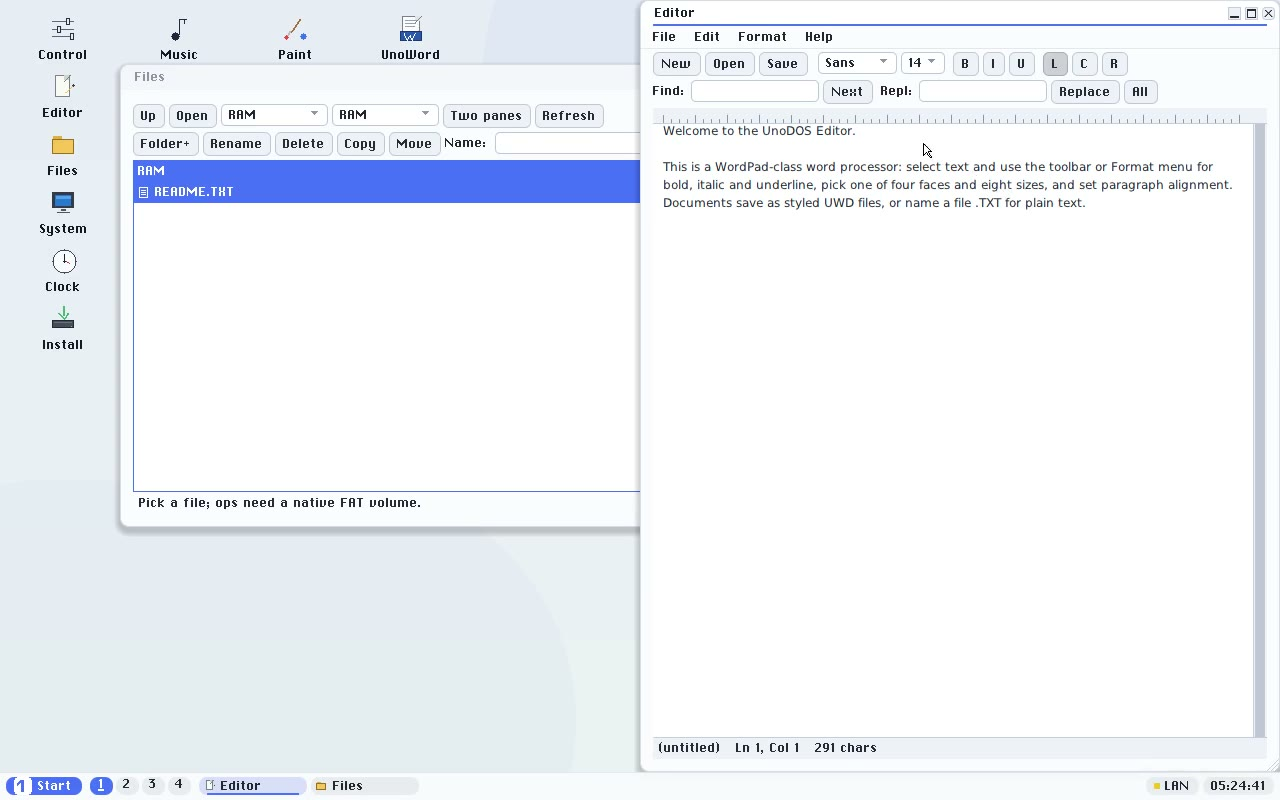
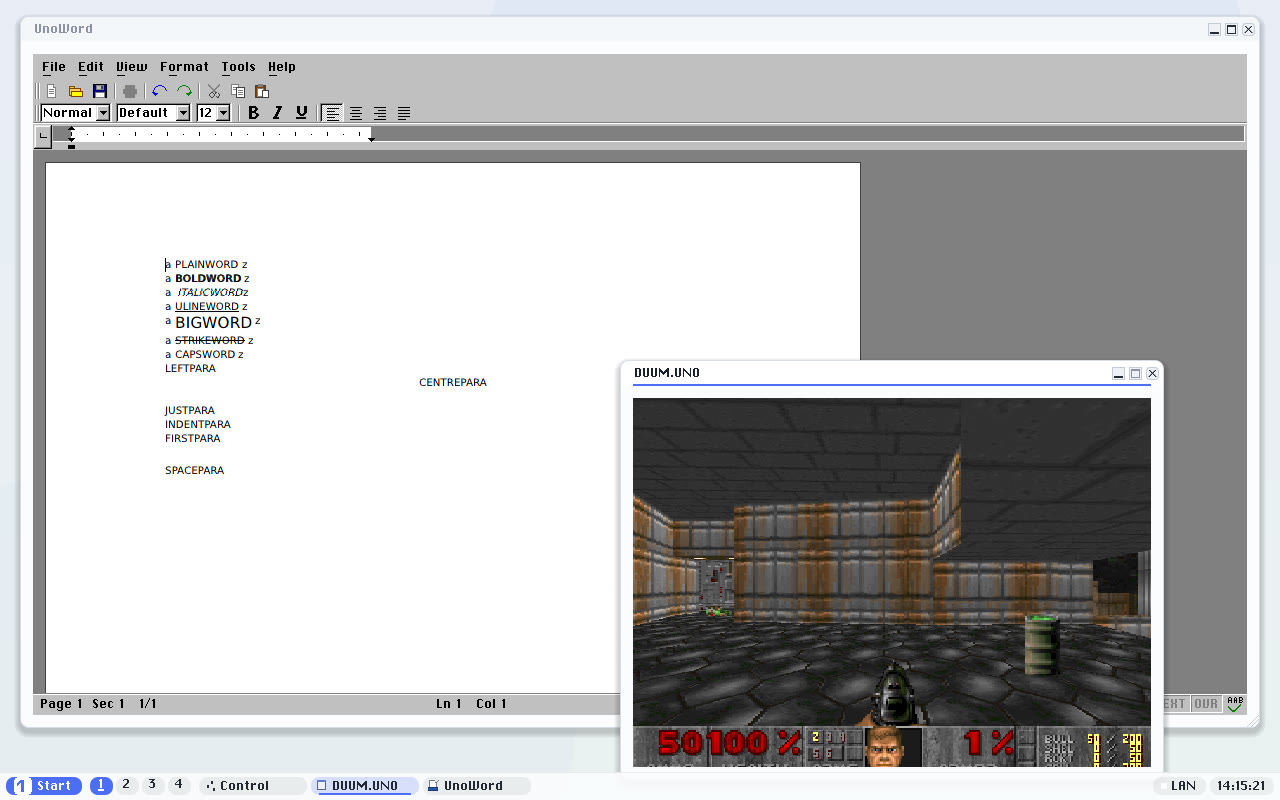
duum: ship a WAD, document bringing your own, and stage the poster shot
THE ISO AND FLASHER NOW CARRY A WAD. Duum has always needed an IWAD nobody
supplied, so out of the box it opened and said it was missing - the one app
most likely to make someone try the thing, broken on arrival. fetch-wad.sh now
defaults to FREEDOOM, whose BSD licence allows it to be given away inside
another product; id's shareware WAD stays available behind --shareware for
local use, because it may be passed around unmodified but is not ours to bake
into a release.

build.sh already staged wads/freedoom1.wad onto the boot disk, so both paths
inherit it: mkiso.py packs build/esp into the ISO, and the flasher zips the
same tree. Verified end to end on a clean build - /DOOM1.WAD is inside the
ISO at its full 28,795,076 bytes.

IT DOUBLES THE ISO, 47 MB to 96 MB. That is the price of the game data and it
is worth stating rather than discovering.

THE MANUAL SAID DUUM WAS A DEMO. The user-facing games section did not mention
it at all, and the developer page still said monsters, items, doors and combat
were "not implemented", which stopped being true several commits ago. Duum now
has a section of its own with the controls and a four-step "bring your own
WAD", and the developer text describes the game that exists.

A POSTER SCENE, because a poster is a screenshot like any other here and gets
scripted rather than cropped by hand. It stages Duum over an open FMT.DOC and
moves the Duum window off the text - it opens exactly on top of the formatted
[…]

diff --git a/docs/apps.html b/docs/apps.html
@@ -164,6 +164,31 @@ play. (Progressive JPEG and WebP are recognised but not decoded.)</p>
 </div>
 <div class="note"><b>3D graphics</b>Runner3D draws real-time 3D graphics entirely in software, so it needs no graphics card.</div>
 
+<h3 id="duum">Duum</h3>
+<p><strong>Duum</strong> is a Doom engine, written in Python, running on the machine's own Python
+runtime. It plays <strong>Knee-Deep in the Dead</strong> end to end: textured walls, floors and sky,
+monsters that see you, chase you and shoot back, weapons, doors, lifts, switches, teleporters,
+keycards, pickups, exploding barrels, the status bar along the bottom, and level-to-level progression.
+Move with the arrow keys, turn with left and right, strafe with <kbd>,</kbd> and <kbd>.</kbd>,
+fire with <kbd>F</kbd>, open doors with <kbd>Space</kbd>, and pick a weapon with <kbd>1</kbd> to
+<kbd>6</kbd>.</p>
+
+<h4>Duum needs a game file</h4>
+<p>Doom's levels, textures and sounds live in a data file called an <strong>IWAD</strong>, and it is
+separate from the engine. UnoDOS ships with <strong>Freedoom</strong>, a free, from-scratch,
+Doom-compatible IWAD, so Duum plays out of the box. If you own Doom you can use your own data
+instead, and it will look and play like the game you remember.</p>
+<ol>
+  <li>Find your <code>DOOM1.WAD</code> (or <code>DOOM.WAD</code> from the registered game, or
+      <code>freedoom1.wad</code> from <a href="https://freedoom.github.io/">freedoom.github.io</a>).</li>
+  <li>Rename it to <strong><code>DOOM1.WAD</code></strong> if it is not called that already.</li>
+  <li>Copy it into the <strong>top level</strong> of the UnoDOS disk - the same place the
+      <code>APPS</code> folder lives - replacing the one that is there.</li>
+  <li>Start Duum. It reads the file straight off the disk as it plays.</li>
+</ol>
+<div class="note"><b>Big files are fine</b>Duum reads the WAD a piece at a time rather than loading it into memory, so a large one is fine on a small machine. If the file is missing or is not a Doom IWAD, Duum opens and tells you so instead of failing.</div>
+<div class="note warn"><b>Whose data is whose</b>Game data belongs to whoever made it. Freedoom is included because its licence allows it to be given away with other software; the id Software WADs are yours to use but not ours to ship, so bring your own copy.</div>
+
 <h2 id="studio">Studio: make your own apps</h2>
 <p>UnoDOS comes with its own IDE. <strong>Studio</strong> is a code editor, a compiler and an AI
 assistant in one window: write an app in <strong>UnoC or Python</strong>, press

diff --git a/docs/dev-python.html b/docs/dev-python.html
@@ -233,12 +233,15 @@ and renders a first-person, BSP-traversed view of the level you can walk around,
 <code>uno.read_at</code>, never loading it whole), heavy compute (the BSP walk and the column renderer), the
 framebuffer, keyboard input, and floating-point math.</p>
 <div class="note"><b>Bring your own WAD</b>Duum needs a Doom-format IWAD on the disk as <code>DOOM1.WAD</code> - none ships with UnoDOS, game data belongs to its makers. Use <strong>Freedoom</strong> (freedoom.github.io, a free BSD-licensed IWAD; rename <code>freedoom1.wad</code> to <code>DOOM1.WAD</code>) or the freely distributable id Software shareware <code>DOOM1.WAD</code>. Put it next to the apps on the boot disk. Without a WAD, Duum opens and says it is missing.</div>
-<p>Walls are texture-mapped from the WAD (perspective-correct, distance- and orientation-shaded); floors,
-ceilings and sky are flat-shaded. It renders one level (E1M1) with simple wall collision. Flat texturing,
-monsters, items, doors and combat are <em>not</em> implemented - Duum proves the platform can carry a real
-engine, it is not a complete port. The textured-column inner loop runs in C (<code>cv.wall_col</code>) so
-the per-pixel work does not go through the interpreter. Move with the arrows, strafe with <kbd>,</kbd> and
-<kbd>.</kbd>.</p>
+<p>Walls, floors, ceilings and sky are all texture-mapped from the WAD (perspective-correct, distance-
+and orientation-shaded), with sprites for monsters, items and the weapon. It is a complete game rather
+than a demo: monster AI, hitscan and projectile weapons, doors, lifts, switches, teleporters, keycards,
+pickups, exploding barrels, damage, the real STBAR status bar, and E1M1 through E1M9 in order. Three
+inner loops run in C (<code>cv.wall_span</code>, <code>cv.mask_span</code>, <code>cv.flat_span</code> -
+one call per rendered column) so the per-pixel work does not go through the interpreter, and input comes
+through the live held-key level (<code>uno.keys_down()</code>) with the 60&nbsp;Hz clock from
+<code>uno.ticks()</code>. Move with the arrows, strafe with <kbd>,</kbd> and <kbd>.</kbd>, fire with
+<kbd>F</kbd>, use with <kbd>Space</kbd>.</p>
 
 <p class="kv">Next: the full <a href="dev-api.html">API reference</a> (including the <a href="dev-api.html#uno-py">
 Python <code>uno</code> module</a>), and <a href="dev-build.html">Building &amp; tooling</a>.</p>

diff --git a/docs/build_site.py b/docs/build_site.py
@@ -1274,6 +1274,31 @@ play. (Progressive JPEG and WebP are recognised but not decoded.)</p>
 </div>
 {note('Runner3D draws real-time 3D graphics entirely in software, so it needs no graphics card.', title="3D graphics")}
 
+<h3 id="duum">Duum</h3>
+<p><strong>Duum</strong> is a Doom engine, written in Python, running on the machine's own Python
+runtime. It plays <strong>Knee-Deep in the Dead</strong> end to end: textured walls, floors and sky,
+monsters that see you, chase you and shoot back, weapons, doors, lifts, switches, teleporters,
+keycards, pickups, exploding barrels, the status bar along the bottom, and level-to-level progression.
+Move with the arrow keys, turn with left and right, strafe with <kbd>,</kbd> and <kbd>.</kbd>,
+fire with <kbd>F</kbd>, open doors with <kbd>Space</kbd>, and pick a weapon with <kbd>1</kbd> to
+<kbd>6</kbd>.</p>
+
+<h4>Duum needs a game file</h4>
+<p>Doom's levels, textures and sounds live in a data file called an <strong>IWAD</strong>, and it is
+separate from the engine. UnoDOS ships with <strong>Freedoom</strong>, a free, from-scratch,
+Doom-compatible IWAD, so Duum plays out of the box. If you own Doom you can use your own data
+instead, and it will look and play like the game you remember.</p>
+<ol>
+  <li>Find your <code>DOOM1.WAD</code> (or <code>DOOM.WAD</code> from the registered game, or
+      <code>freedoom1.wad</code> from <a href="https://freedoom.github.io/">freedoom.github.io</a>).</li>
+  <li>Rename it to <strong><code>DOOM1.WAD</code></strong> if it is not called that already.</li>
+  <li>Copy it into the <strong>top level</strong> of the UnoDOS disk - the same place the
+      <code>APPS</code> folder lives - replacing the one that is there.</li>
+  <li>Start Duum. It reads the file straight off the disk as it plays.</li>
+</ol>
+{note('Duum reads the WAD a piece at a time rather than loading it into memory, so a large one is fine on a small machine. If the file is missing or is not a Doom IWAD, Duum opens and tells you so instead of failing.', title="Big files are fine")}
+{note('Game data belongs to whoever made it. Freedoom is included because its licence allows it to be given away with other software; the id Software WADs are yours to use but not ours to ship, so bring your own copy.', kind="warn", title="Whose data is whose")}
+
 <h2 id="studio">Studio: make your own apps</h2>
 <p>UnoDOS comes with its own IDE. <strong>Studio</strong> is a code editor, a compiler and an AI
 assistant in one window: write an app in <strong>UnoC or Python</strong>, press
@@ -2028,12 +2053,15 @@ and renders a first-person, BSP-traversed view of the level you can walk around,
 <code>uno.read_at</code>, never loading it whole), heavy compute (the BSP walk and the column renderer), the
 framebuffer, keyboard input, and floating-point math.</p>
 {note('Duum needs a Doom-format IWAD on the disk as <code>DOOM1.WAD</code> - none ships with UnoDOS, game data belongs to its makers. Use <strong>Freedoom</strong> (freedoom.github.io, a free BSD-licensed IWAD; rename <code>freedoom1.wad</code> to <code>DOOM1.WAD</code>) or the freely distributable id Software shareware <code>DOOM1.WAD</code>. Put it next to the apps on the boot disk. Without a WAD, Duum opens and says it is missing.', title="Bring your own WAD")}
-<p>Walls are texture-mapped from the WAD (perspective-correct, distance- and orientation-shaded); floors,
-ceilings and sky are flat-shaded. It renders one level (E1M1) with simple wall collision. Flat texturing,
-monsters, items, doors and combat are <em>not</em> implemented - Duum proves the platform can carry a real
-engine, it is not a complete port. The textured-column inner loop runs in C (<code>cv.wall_col</code>) so
-the per-pixel work does not go through the interpreter. Move with the arrows, strafe with <kbd>,</kbd> and
-<kbd>.</kbd>.</p>
+<p>Walls, floors, ceilings and sky are all texture-mapped from the WAD (perspective-correct, distance-
+and orientation-shaded), with sprites for monsters, items and the weapon. It is a complete game rather
+than a demo: monster AI, hitscan and projectile weapons, doors, lifts, switches, teleporters, keycards,
+pickups, exploding barrels, damage, the real STBAR status bar, and E1M1 through E1M9 in order. Three
+inner loops run in C (<code>cv.wall_span</code>, <code>cv.mask_span</code>, <code>cv.flat_span</code> -
+one call per rendered column) so the per-pixel work does not go through the interpreter, and input comes
+through the live held-key level (<code>uno.keys_down()</code>) with the 60&nbsp;Hz clock from
+<code>uno.ticks()</code>. Move with the arrows, strafe with <kbd>,</kbd> and <kbd>.</kbd>, fire with
+<kbd>F</kbd>, use with <kbd>Space</kbd>.</p>
 
 <p class="kv">Next: the full <a href="dev-api.html">API reference</a> (including the <a href="dev-api.html#uno-py">
 Python <code>uno</code> module</a>), and <a href="dev-build.html">Building &amp; tooling</a>.</p>

diff --git a/pc64/tools/demo/scenes.py b/pc64/tools/demo/scenes.py
@@ -1879,6 +1879,70 @@ def s10_system_log(d):
 
 # name -> (pre, body). `pre` runs before the stream starts (None = nothing);
 # returning False skips the scene (already logged why).
+def poster_pre(d):
+    """Stage the still the website uses as the film's poster: Duum in front,
+    a formatted Word document open behind it.
+
+    A poster is a screenshot like any other here, so it is SCRIPTED rather
+    than cropped out of the footage by hand - rerun it and you get the same
+    frame. It wants both halves of the argument in one picture: the thing
+    that makes people look (a Doom level, textured, with the status bar) and
+    the thing that makes them stay (a real .doc, bold and centred, in a word
+    processor), on one desktop at the same time.
+
+    Everything happens here, before the stream, because the scene body only
+    has to hold still long enough to grab the frame.
+    """
+    if not getattr(d, "office_staged", None):
+        print("  poster: SKIP - office corpus not staged")
+        return False
+    if not getattr(d, "wad_staged", None):
+        print("  poster: SKIP - no WAD, and Duum is the front half of the shot")
+        return False
+
+    # Behind: UnoWord with FMT.DOC, the document whose own text names its
+    # formatting. Pushed to RAM first, exactly as s04 does it.
+    d.link.push_file(0, "FMT.DOC",
+                     dict((x.upper(), os.path.join(CORPUS, x))
+                          for x, _ in OFFICE)["FMT.DOC"])
+    d.launch("uoword", settle=3.0)
+    d.ctrl("o", settle=1.4)
+    uof_open_row(d, 1)
+    time.sleep(3.0)
+
+    # In front: Duum. run_app is the same call a double-click in Files makes.
+    pyeval(d, 'import uno; uno.run_app(%d, "APPS\\DUUM.UNO")' % esp_vol(d),
+           timeout=30)
+    for _ in range(30):
+        if any("DUUM" in t.upper() for t in d.windows()):
+            break
+        time.sleep(2.0)
+    # Walk a few steps so the frame is a room being played, not a spawn point.
+    time.sleep(2.0)
+    for _ in range(10):
+        d.key(0, S_UP, settle=0.30)
+    for _ in range(3):
+        d.key(0, S_RIGHT, settle=0.30)
+
+    # Duum opens top-left, exactly over the part of the document that carries
+    # the formatting, so the page behind it reads as blank. Move it down and
+    # right by its title bar: the formatted lines sit in the page's top-left,
+    # and this clears them. Dropped mid-screen, well away from the edges,
+    # because within 8 px of one the WM snaps the window instead.
+    d.drag(300, 36, 880, 372, settle=1.2)
+    time.sleep(1.5)
+    return True
+
+
+def poster_shot(d):
+    """Grab it. The stream is running but the picture is the point."""
+    d.beat("poster")
+    time.sleep(1.0)
+    p, w, h, _ = d.shot("poster")
+    print("  poster: %s (%dx%d)" % (p, w, h))
+    time.sleep(1.0)
+
+
 SCENES = [
     ("s02", (None, s02_wm)),
     ("s03", (None, s03_themes)),
@@ -1894,6 +1958,10 @@ SCENES = [
     # itself on every ordinary run. It kept the number it was recorded under
     # until 2026-08-08, when s09 became the automation scene.
     ("s14", (s14_pre, s14_console)),
+    # Not in the cut: this one exists to produce the website's poster frame.
+    # Run it on its own - `scenes.py --scene poster` - and take the PNG out of
+    # out/<dir>/probe/poster.png.
+    ("poster", (poster_pre, poster_shot)),
 ]
 
 
